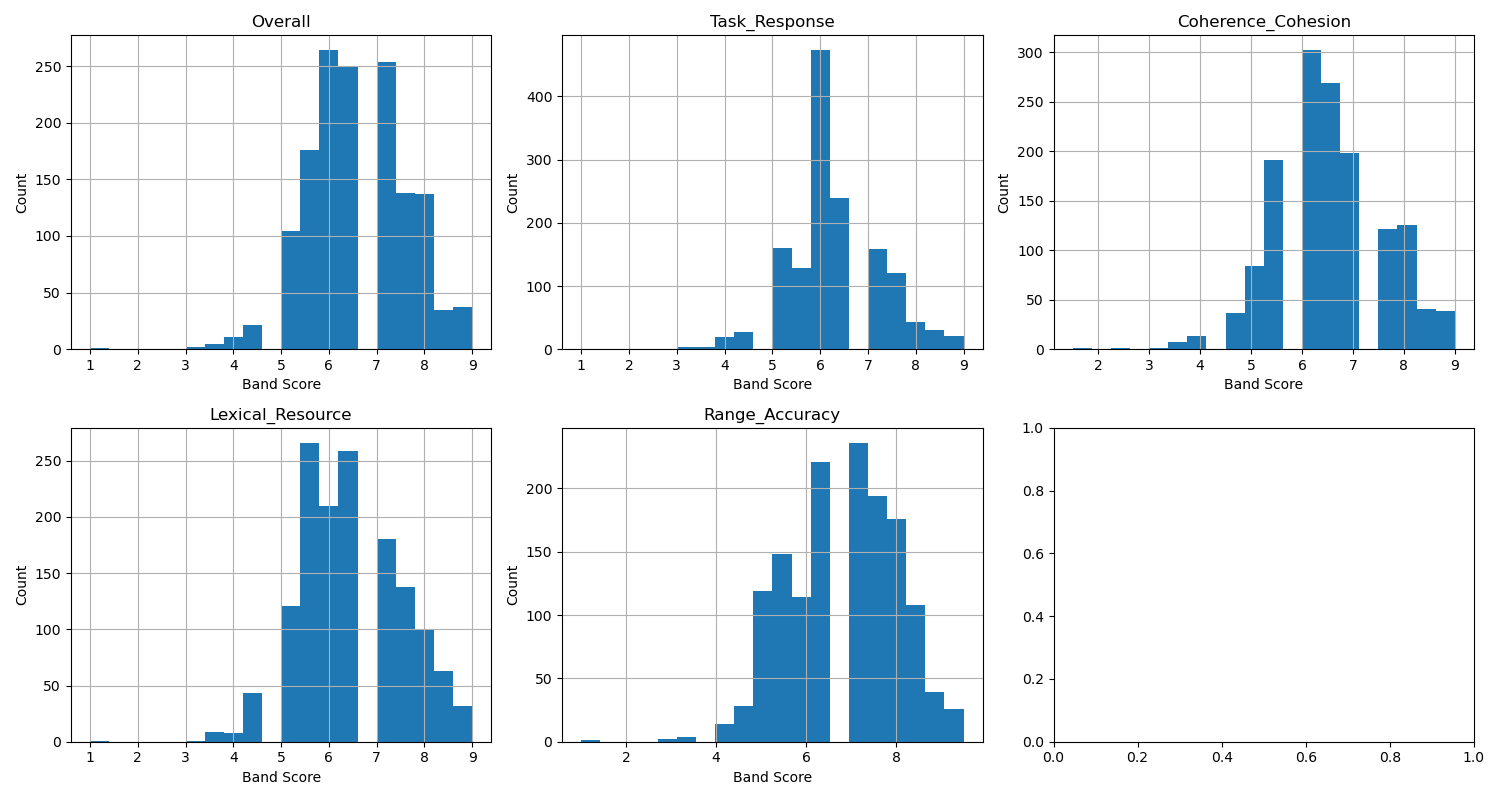
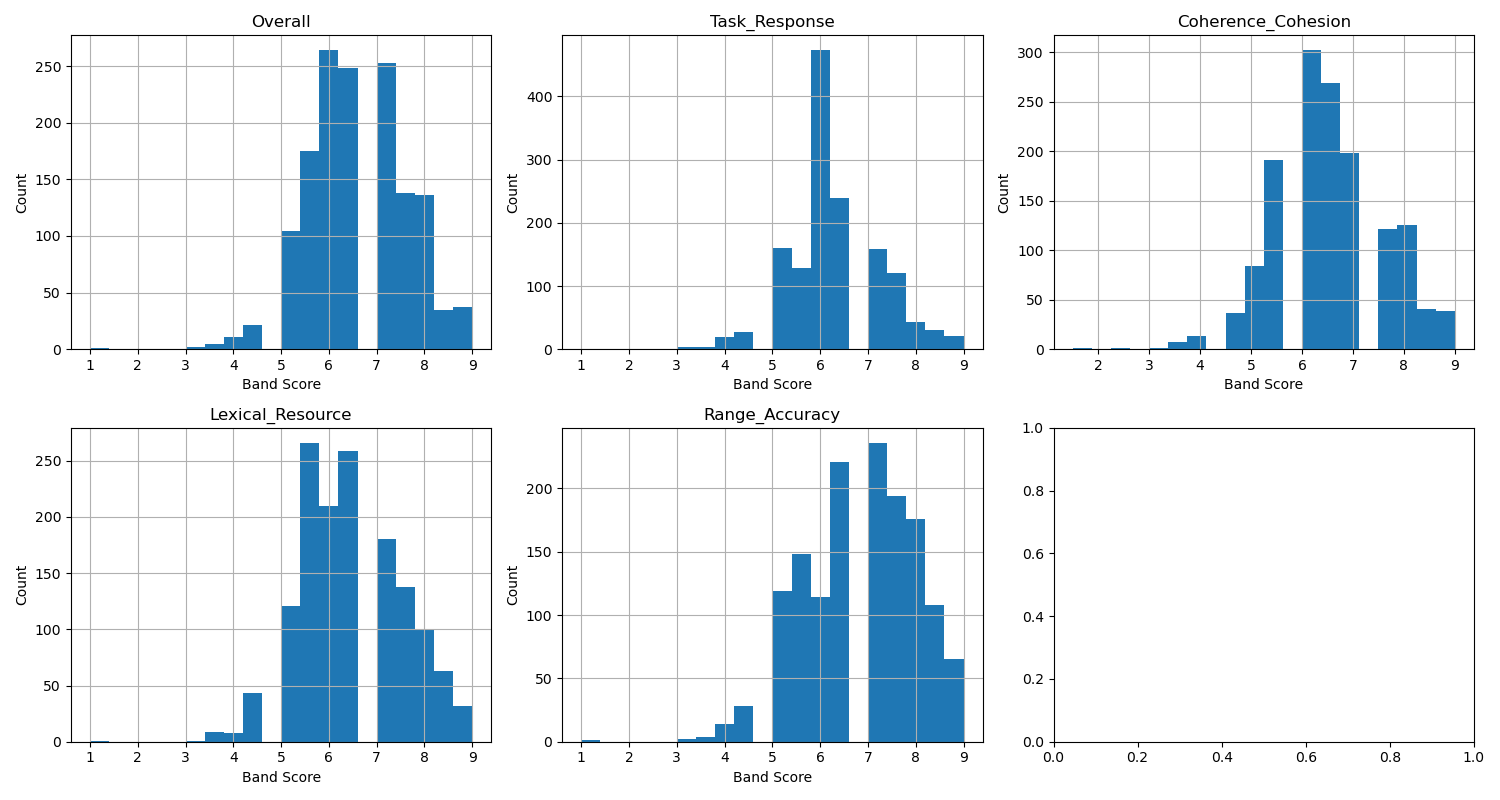
caught a serious mistake: wrong data plugged in training script; chromaDB ingest.pyfinish

Changed region(s): [[0.46, 0.5312, 0.644, 0.9375]]

diff --git a/src/scripts/ingest.py b/src/scripts/ingest.py
@@ -1,0 +1,154 @@
+"""
+BandIt RAG ingest script
+Loads ielts_relabeled_v3.csv and populates two ChromaDB collections:
+  - essays:    embeddings from Essay text,    documents = Examiner_Comment
+  - questions: embeddings from Question text, documents = Examiner_Comment
+
+At query time, the returned document IS the examiner_comment (few-shot payload).
+Embeddings are computed explicitly via sentence-transformers (all-MiniLM-L6-v2).
+
+Usage:
+    python src/scripts/ingest.py
+    python src/scripts/ingest.py --data data/ielts_relabeled_v3.csv --db data/chroma
+"""
+
+import os
+import sys
+import argparse
+import pandas as pd
+import chromadb
+from chromadb.config import Settings
+from sentence_transformers import SentenceTransformer
+
+# ---------------------------------------------------------------------------
+# Config
+# ---------------------------------------------------------------------------
+DEFAULT_DATA   = os.path.join("data", "ielts_relabeled_v3.csv")
+DEFAULT_DB     = os.path.join("data", "chroma")
+EMBEDDING_MODEL = "all-MiniLM-L6-v2"
+BATCH           = 500
+
+# ---------------------------------------------------------------------------
+# Band bin — same 4-bin stratification used in dataset.py
+# ---------------------------------------------------------------------------
+def compute_band_bin(overall: float) -> str:
+    if overall < 5.0:
+        return "poor"
+    elif overall < 6.5:
+        return "developing"
+    elif overall < 8.0:
+        return "competent"
+    else:
+        return "expert"
+
+# ---------------------------------------------------------------------------
+# Embed helper
+# ---------------------------------------------------------------------------
+def embed(model: SentenceTransformer, texts: list[str]) -> list[list[float]]:
+    return model.encode(texts, show_progress_bar=True).tolist()
+
+# ---------------------------------------------------------------------------
+# Main
+# ---------------------------------------------------------------------------
+def main(data_path: str, db_path: str) -> None:
+    # --- load ---
+    print(f"Loading {data_path} ...")
+    df = pd.read_csv(data_path)
+    print(f"  {len(df)} rows loaded")
+
+    required = {"Question", "Essay", "Examiner_Comment", "Overall"}
+    missing = required - set(df.columns)
+    if missing:
+        print(f"ERROR: missing columns: {missing}")
+        sys.exit(1)
+
+    before = len(df)
+    df = df.dropna(subset=list(required))
+    dropped = before - len(df)
+    if dropped:
+        print(f"  WARNING: dropped {dropped} rows with nulls in critical columns")
+
+    df = df.reset_index(drop=True)
+
+    # --- band_bin ---
+    df["band_bin"] = df["Overall"].apply(compute_band_bin)
+    print(f"  Band distribution:\n{df['band_bin'].value_counts().to_string()}")
+
+    # --- embedding model ---
+    print(f"\nLoading embedding model: {EMBEDDING_MODEL} ...")
+    model = SentenceTransformer(EMBEDDING_MODEL)
+
+    # --- compute embeddings explicitly ---
+    print("\nEmbedding essays ...")
+    essay_embeddings = embed(model, df["Essay"].tolist())
+
+    print("\nEmbedding questions ...")
+    question_embeddings = embed(model, df["Question"].tolist())
+
+    # --- ChromaDB ---
+    print(f"\nInitialising ChromaDB at {db_path} ...")
+    # disable chromadb's own embedding function — we provide embeddings explicitly
+    client = chromadb.PersistentClient(path=db_path)
+
+    for name in ("essays", "questions"):
+        try:
+            client.delete_collection(name)
+            print(f"  Deleted existing collection: {name}")
+        except Exception:
+            pass
+
+    # embedding_function=None tells ChromaDB we are providing embeddings ourselves
+    essays_col    = client.create_collection("essays",    embedding_function=None)
+    questions_col = client.create_collection("questions", embedding_function=None)
+    print("  Collections created: essays, questions")
+
+    # --- build shared records ---
+    ids       = [str(i) for i in df.index]
+    documents = df["Examiner_Comment"].tolist()   # what gets returned at query time
+    metadatas = [
+        {
+            "band_bin": row["band_bin"],
+            "overall":  float(row["Overall"]),
+        }
+        for _, row in df.iterrows()
+    ]
+
+    # --- upsert essays ---
+    total = len(ids)
+    print(f"\nUpserting {total} records into 'essays' ...")
+    for start in range(0, total, BATCH):
+        end = min(start + BATCH, total)
+        essays_col.add(
+            ids=ids[start:end],
+            embeddings=essay_embeddings[start:end],
+            documents=documents[start:end],
+            metadatas=metadatas[start:end],
+        )
+        print(f"  essays: {end}/{total}")
+
+    # --- upsert questions ---
+    print(f"\nUpserting {total} records into 'questions' ...")
+    for start in range(0, total, BATCH):
+        end = min(start + BATCH, total)
+        questions_col.add(
+            ids=ids[start:end],
+            embeddings=question_embeddings[start:end],
+            documents=documents[start:end],
+            metadatas=metadatas[start:end],
+        )
+        print(f"  questions: {end}/{total}")
+
+    # --- verify ---
+    print("\nVerification:")
+    print(f"  essays    count: {essays_col.count()}")
+    print(f"  questions count: {questions_col.count()}")
+    print("\nIngest complete.")
+
+
+if __name__ == "__main__":
+    parser = argparse.ArgumentParser(description="BandIt ChromaDB ingest")
+    parser.add_argument("--data", default=DEFAULT_DATA, help="Path to ielts_relabeled.csv")
+    parser.add_argument("--db",   default=DEFAULT_DB,   help="ChromaDB persistent directory")
+    args = parser.parse_args()
+
+    main(args.data, args.db)

diff --git a/src/train.py b/src/train.py
@@ -4,7 +4,7 @@ import json
 import torch
 import torch.nn as nn
 from torch.optim import AdamW
-from transformers import get_linear_schedule_with_warmup
+from transformers import get_cosine_schedule_with_warmup
 
 from dataset import get_dataloaders, LABEL_COLUMNS
 from model import BandItScorer
@@ -16,31 +16,28 @@ from model import BandItScorer
 
 CONFIG = {
     # data
-    "csv_path":       "data/ielts_relabeled.csv",
-    "max_length":     512,
-    "val_split":      0.2,
-    "seed":           42,
+    "csv_path":        "data/ielts_relabeled_v3.csv",
+    "max_length":      512,
+    "val_split":       0.2,
+    "seed":            42,
 
     # training
-    "epochs":         30,
-    "batch_size":     8,
-    "warmup_epochs":  2,
+    "epochs":          30,
+    "batch_size":      8,
+    "warmup_epochs":   3,
 
     # optimizer
-    "backbone_lr":    1e-6,        # very gentle — heads already trained for 16 epochs
-    "head_lr":        3e-4,
-    "weight_decay":   0.05,
+    "backbone_lr":     1e-6,
+    "head_lr":         2e-4,
+    "weight_decay":    0.05,
 
     # model
-    "dropout":        0.4,
+    "dropout":         0.4,
 
     # checkpointing
-    "checkpoint_dir": "checkpoints",
-    "save_every":     2,
-    "best_model_name": "best_model_v4.pt",
-
-    # unfreezing
-    "unfreeze_epoch": 17,          # backbone unfreezes here
+    "checkpoint_dir":  "checkpoints",
+    "save_every":      2,
+    "best_model_name": "best_model_v5.pt",
 }
 
 
@@ -49,7 +46,6 @@ CONFIG = {
 # ------------------------------------------------------------------
 
 def mse_loss(predictions: torch.Tensor, labels: torch.Tensor) -> torch.Tensor:
-    """MSE over all 4 criteria simultaneously."""
     return nn.MSELoss()(predictions, labels)
 
 
@@ -161,18 +157,16 @@ def save_checkpoint(model, optimizer, scheduler, epoch, val_mae, path):
     print(f"  [checkpoint] saved → {path}")
 
 
-def load_checkpoint(path, model, optimizer=None, scheduler=None):
+def load_checkpoint(path, model):
     checkpoint = torch.load(path, map_location="cpu")
     model.load_state_dict(checkpoint["model_state"])
-    if optimizer is not None: optimizer.load_state_dict(checkpoint["optimizer_state"])
-    if scheduler is not None: scheduler.load_state_dict(checkpoint["scheduler_state"])
     epoch   = checkpoint["epoch"]
     val_mae = checkpoint["val_mae"]
     print(f"  [checkpoint] loaded ← {path}  (epoch {epoch}, val MAE {val_mae:.4f})")
     return epoch, val_mae
 
 
-def find_latest_checkpoint(ckpt_dir, prefix="v4_epoch_"):
+def find_latest_checkpoint(ckpt_dir, prefix="v5_epoch_"):
     if not os.path.exists(ckpt_dir):
         return None
     candidates = [
@@ -207,6 +201,9 @@ def train():
     model = BandItScorer(pretrained=True, dropout=CONFIG["dropout"])
     model = model.float()
     model.to(device)
+    for param in model.deberta.parameters():
+        param.requires_grad = True
+    print("[train] backbone unfrozen from epoch 1")
 
     counts = model.count_parameters()
     print(f"[train] parameters: {counts['total']:,} total")
@@ -214,9 +211,6 @@ def train():
     print(f"[train]             {counts['frozen']:,} frozen")
 
     # --- Optimizer ---
-    # Two parameter groups — backbone gets its own tiny lr when unfrozen.
-    # Backbone params are frozen at model init so AdamW won't update them
-    # until requires_grad is set to True at unfreeze_epoch.
     optimizer = AdamW(
         [
             {"params": model.deberta.parameters(),      "lr": CONFIG["backbone_lr"]},
@@ -229,12 +223,14 @@ def train():
         weight_decay=CONFIG["weight_decay"],
     )
 
+    # --- Scheduler — always built for full 50 epochs ---
     total_steps  = len(train_loader) * CONFIG["epochs"]
     warmup_steps = len(train_loader) * CONFIG["warmup_epochs"]
-    scheduler    = get_linear_schedule_with_warmup(
+    scheduler = get_cosine_schedule_with_warmup(
         optimizer,
         num_warmup_steps   = warmup_steps,
         num_training_steps = total_steps,
+        num_cycles         = 0.5,
     )
     print(f"[train] total steps: {total_steps} | warmup steps: {warmup_steps}")
 
@@ -243,27 +239,31 @@ def train():
     best_ckpt    = os.path.join(CONFIG["checkpoint_dir"], CONFIG["best_model_name"])
     history      = []
 
-    latest_ckpt = find_latest_checkpoint(CONFIG["checkpoint_dir"], prefix="v4_epoch_")
+    latest_ckpt = find_latest_checkpoint(CONFIG["checkpoint_dir"], prefix="v5_epoch_")
 
     if latest_ckpt:
-        print(f"[train] found v4 checkpoint: {latest_ckpt}")
+        print(f"[train] found v5 checkpoint: {latest_ckpt}")
         resumed_epoch, resumed_mae = load_checkpoint(latest_ckpt, model)
-        # NOTE: we do NOT restore optimizer/scheduler state here —
-        # we just added a new parameter group (backbone) so the old
-        # optimizer state is incompatible. Fresh optimizer is correct.
         start_epoch  = resumed_epoch + 1
         best_val_mae = resumed_mae
 
         if os.path.exists(best_ckpt):
             best_data    = torch.load(best_ckpt, map_location="cpu")
             best_val_mae = min(best_val_mae, best_data["val_mae"])
-            print(f"[train] best v4 val MAE so far: {best_val_mae:.4f}")
+            print(f"[train] best v5 val MAE so far: {best_val_mae:.4f}")
+
+        # fast-forward scheduler to the correct position
+        steps_done = resumed_epoch * len(train_loader)
+        print(f"[train] fast-forwarding scheduler {steps_done} steps (epoch 1-{resumed_epoch})...")
+        for _ in range(steps_done):
+            scheduler.step()
+        print(f"[train] scheduler ready at step {steps_done}/{total_steps}")
 
         if start_epoch > CONFIG["epochs"]:
             print(f"[train] already completed {CONFIG['epochs']} epochs.")
             return history
     else:
-        print(f"[train] no v4 checkpoint found — starting from scratch")
+        print(f"[train] no v5 checkpoint found — starting from scratch")
         v3_path = os.path.join(CONFIG["checkpoint_dir"], "best_model.pt")
         if os.path.exists(v3_path):
             print(f"[train] v3 best_model.pt preserved at {v3_path} ✓")
@@ -272,13 +272,7 @@ def train():
 
     for epoch in range(start_epoch, CONFIG["epochs"] + 1):
 
-        # --- Unfreeze backbone at unfreeze_epoch ---
-        if epoch == CONFIG["unfreeze_epoch"]:
-            for param in model.deberta.parameters():
-                param.requires_grad = True
-            counts = model.count_parameters()
-            print(f"[train] backbone unfrozen at epoch {epoch} — lr={CONFIG['backbone_lr']}")
-            print(f"[train] trainable params now: {counts['trainable']:,}")
+        
 
         print(f"{'='*50}")
         print(f"epoch {epoch}/{CONFIG['epochs']}")
@@ -295,7 +289,7 @@ def train():
             print(f"    {col:<25} {val_mae[col]:.4f}")
 
         if epoch % CONFIG["save_every"] == 0:
-            ckpt_path = os.path.join(CONFIG["checkpoint_dir"], f"v4_epoch_{epoch:02d}.pt")
+            ckpt_path = os.path.join(CONFIG["checkpoint_dir"], f"v5_epoch_{epoch:02d}.pt")
             save_checkpoint(model, optimizer, scheduler, epoch, val_mae["mean_mae"], ckpt_path)
 
         if val_mae["mean_mae"] < best_val_mae:
@@ -318,7 +312,7 @@ def train():
     print(f"v3 model:     checkpoints/best_model.pt  (untouched)")
     print(f"{'='*50}\n")
 
-    summary_path = os.path.join(CONFIG["checkpoint_dir"], "training_summary_v4.txt")
+    summary_path = os.path.join(CONFIG["checkpoint_dir"], "training_summary_v5.txt")
     save_summary(history, summary_path)
     return history
 
@@ -331,7 +325,7 @@ def save_summary(history, path):
     os.makedirs(os.path.dirname(path), exist_ok=True)
     with open(path, "w") as f:
         f.write("=" * 50 + "\n")
-        f.write("BANDIT TRAINING SUMMARY — v4\n")
+        f.write("BANDIT TRAINING SUMMARY — v5\n")
         f.write("=" * 50 + "\n\n")
 
         f.write("CONFIG\n")
@@ -368,11 +362,6 @@ def save_summary(history, path):
 
     print(f"[train] summary saved → {path}")
 
-
-# ------------------------------------------------------------------
-# Entry point
-# python src/train.py
-# ------------------------------------------------------------------
 
 if __name__ == "__main__":
     history = train()

diff --git a/verifyChroma.py b/verifyChroma.py
@@ -1,0 +1,25 @@
+import chromadb
+from sentence_transformers import SentenceTransformer
+
+client = chromadb.PersistentClient(path="data/chroma")
+
+essays_col    = client.get_collection("essays",    embedding_function=None)
+questions_col = client.get_collection("questions", embedding_function=None)
+
+print("essays count:",    essays_col.count())
+print("questions count:", questions_col.count())
+
+# spot check — query essays collection with a sample essay snippet
+model = SentenceTransformer("all-MiniLM-L6-v2")
+test_query = "The graph shows the percentage of people who used the internet in three countries."
+query_embedding = model.encode([test_query]).tolist()
+
+results = essays_col.query(
+    query_embeddings=query_embedding,
+    n_results=3,
+)
+
+print("\nTop 3 retrieved examiner comments:")
+for i, doc in enumerate(results["documents"][0]):
+    print(f"\n[{i+1}] band={results['metadatas'][0][i]['band_bin']} overall={results['metadatas'][0][i]['overall']}")
+    print(doc[:200])